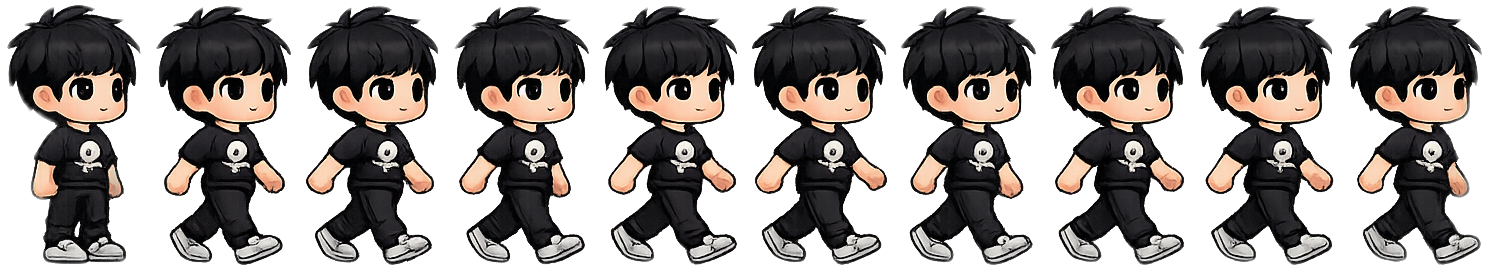
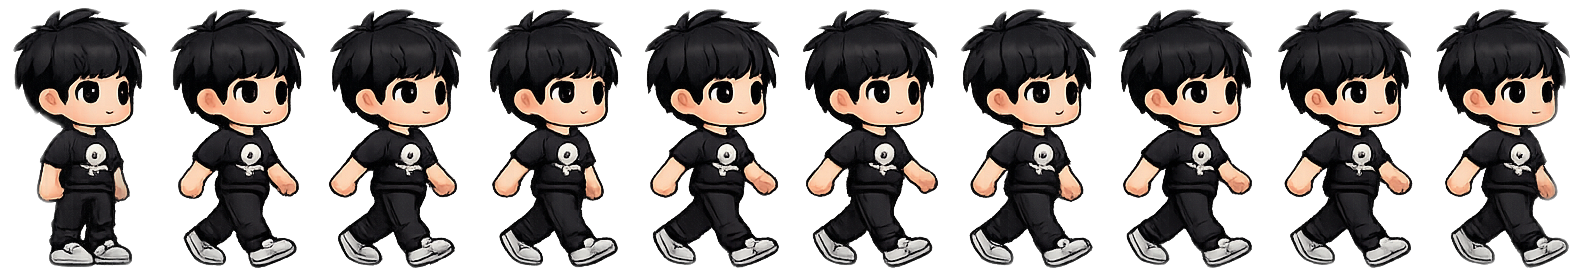
Fix couple facing: mirror bride sheet so both face same direction

diff --git a/index.html b/index.html
@@ -381,8 +381,8 @@ function roundRect(x,y,w,h,r){ ctx.beginPath(); ctx.moveTo(x+r,y); ctx.arcTo(x+w
 /* chibi walk-cycle sheets: one horizontal row of N cells, character facing RIGHT.
    metadata measured from the re-packed sheets (see assets/*_walk.png) */
 const WALK={
-  groom:{n:10, fw:149, fh:269, idle:7},
-  bride:{n: 8, fw:170, fh:291, idle:0},
+  groom:{n:10, fw:158, fh:271, idle:0},
+  bride:{n: 8, fw:178, fh:293, idle:0},
 };
 const CHAR_TH=80, CHAR_BOT=4;   // on-screen height (logical) + baseline pad baked into the cell
 function drawCouple(){ worldTransform();
@@ -391,15 +391,11 @@ function drawCouple(){ worldTransform();
   const gf = player.walking ? Math.floor(player.step)%gm.n : gm.idle;
   const bf = player.walking ? Math.floor(player.step)%bm.n : bm.idle;
   player.frame=gf;
-  if(player.walking){
-    // both face the direction of travel (sheets face right; flip when going left)
-    if(player.dir>0){ char(IMG.groom,gm,gf,cx-dx,by,false); char(IMG.bride,bm,bf,cx+dx,by,false); }
-    else            { char(IMG.bride,bm,bf,cx-dx,by,true);  char(IMG.groom,gm,gf,cx+dx,by,true); }
-  } else {
-    // idle: both face right, standing side by side
-    char(IMG.groom,gm,gf,cx-dx,by,false);
-    char(IMG.bride,bm,bf,cx+dx,by,false);
-  }
+  // Same facing rule whether walking or idle: face the last travel direction so they
+  // don't snap around when you stop. Sheets face right -> flip when heading left.
+  const flip = player.dir<0;
+  if(!flip){ char(IMG.groom,gm,gf,cx-dx,by,false); char(IMG.bride,bm,bf,cx+dx,by,false); }
+  else     { char(IMG.bride,bm,bf,cx-dx,by,true);  char(IMG.groom,gm,gf,cx+dx,by,true); }
   // little hand-link heart
   if(Math.sin(now/300)>0.5){ ctx.fillStyle="#e8889c"; ctx.font="9px 'Press Start 2P',monospace";
     ctx.textAlign="center"; ctx.fillText("♥",cx,by-CHAR_TH*0.6); }